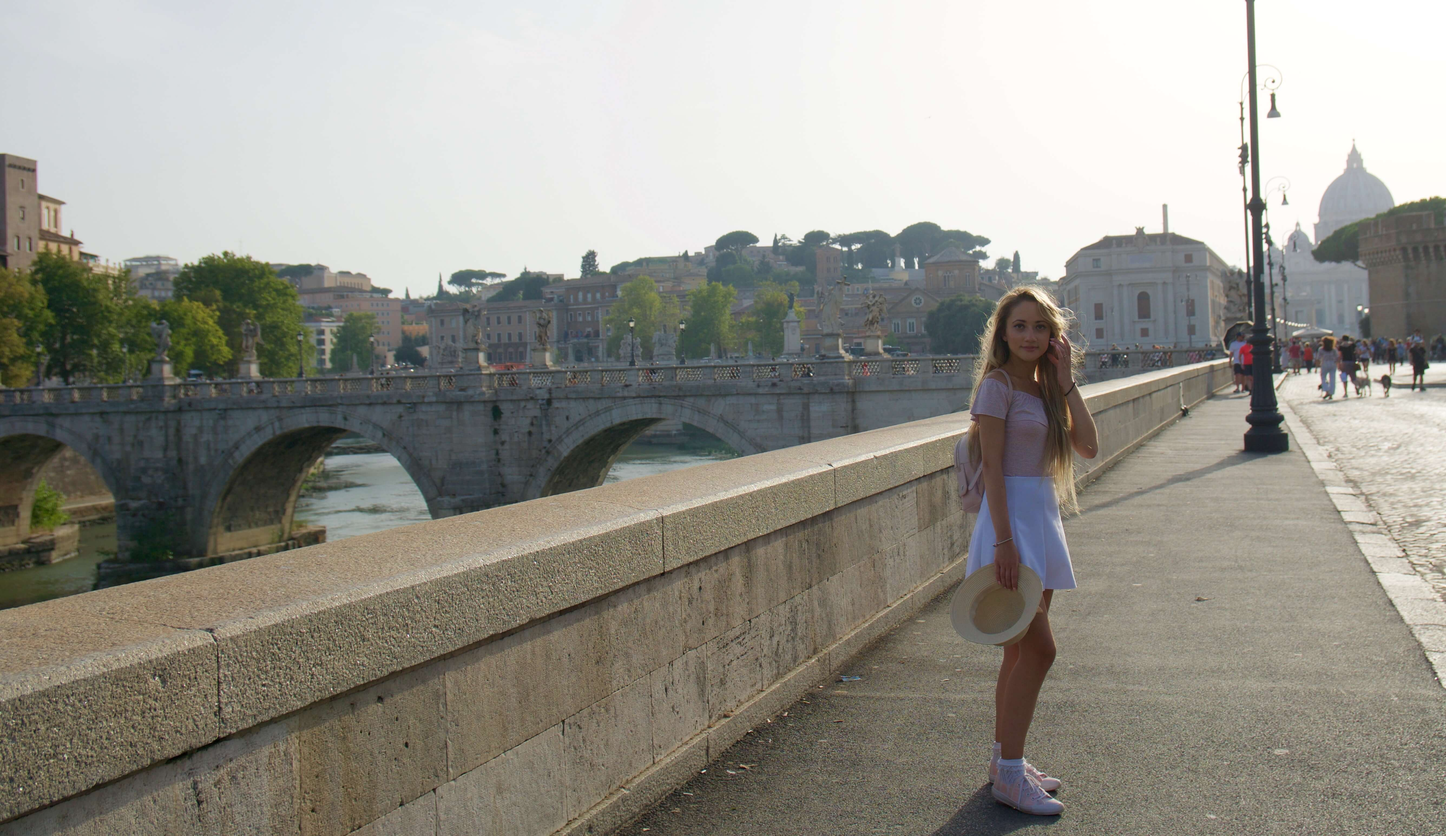
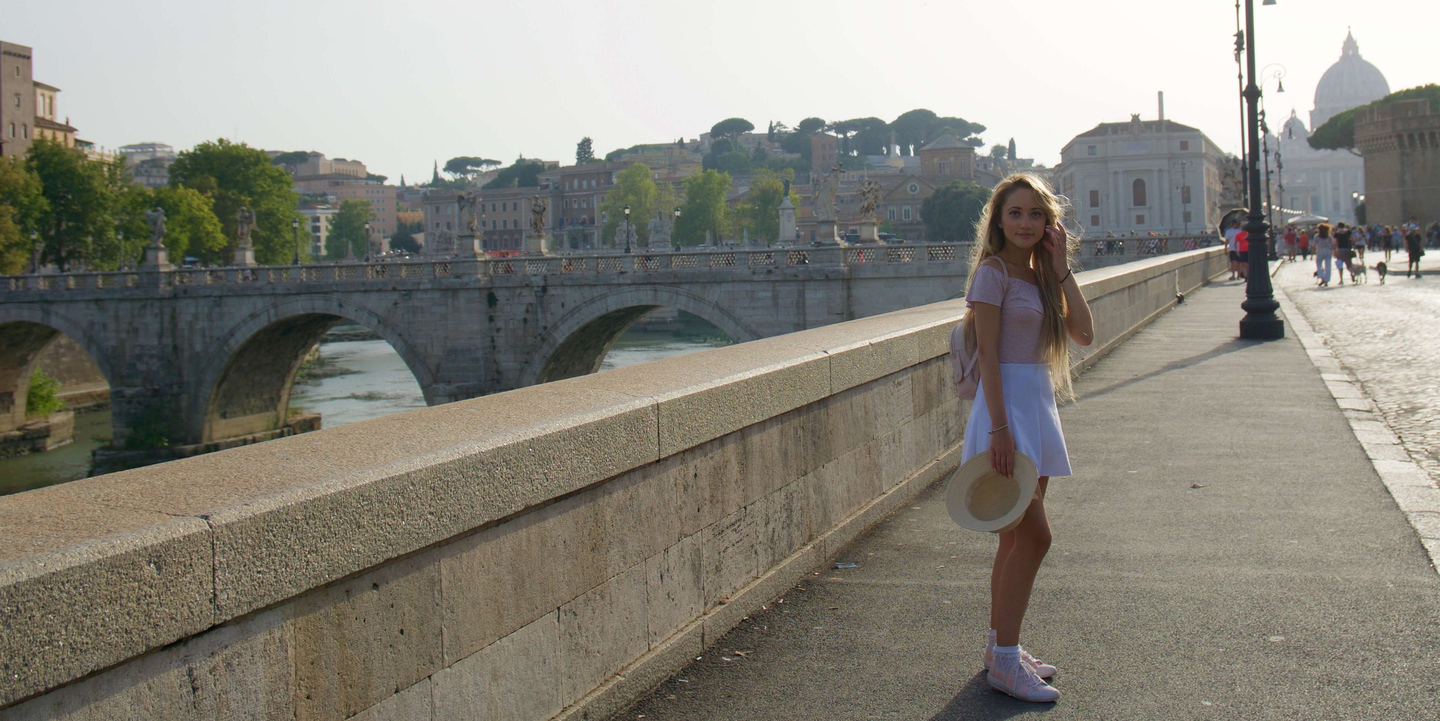
created a rough draft, enlarged jumbotrton image, created progress bars, draft of my skills section and my work section

diff --git a/index.html b/index.html
@@ -40,20 +40,58 @@
 
 <!--Jumbotron, showing a picture of me, my name and other info-->
 <header>
-    <div class="jumbotron jumbotron-fluid" style="background-image: url(../Bootstrap-Portfolio/images/meInItalyCompressed.jpeg); background-size: 100%;">
-      <h1 class="col-lf-11 display-4">Welcome to my Portfolio</h1>
-      <p class="lead">Hello! My name is Alice and this is my first Portfolio made with Bootstrap. I hope you enjoy checking out my projects and getting to know me.</p>
-      <p>This is a picture of me in Italy, I love travelling!</p>
+    <div class="jumbotron jumbotron-fluid" style="background-image: url(../Bootstrap-Portfolio/images/meInItalyCompressed.jpeg); background-size: 100%;"><br>
+      <br><h1 class="col-lf-11 display-4" id="title"><br>Welcome to my Portfolio</h1><br>
+      <p class="lead">&nbsp; Hello! My name is Alice and this is my Portfolio made with Bootstrap. I hope you enjoy checking out my projects and getting to know me.</p><br>
       <p class="lead">
-         <a class="btn btn-outline-dark btn-lg" href="#" role="button">My Projects</a>
+         <a class="btn btn-light btn-lg" href="#" role="button">About Me</a>
       </p>
-      <hr class="my-4">
 </div>
 </header>
-    <!--My Work in a grid, with each project image in a card. The card should include an image and short description-->
 
+     <!--Skills section - list of things you expect to learn-->
+<section class="container">
+    <div class="">
+        <h1 class="">My Skills</h1><br>
+        
+        <p class="">So far I have learned an abundance of information, and I look forward to learning more each day.
+            <ul>I have learned:
+                <li>HTML: Semantic and non semantic HTML. I have also learned form inputs and tables.</li>
+                <li>CSS: I have learned the box model, and its alternative (border-box). I have learned about classes and ids, and I have learned many types of selectors.</li>
+                <li>Flexbox (CSS): I have learned how to manipulate the positioning of elements using Flexbox.</li>
+                <li>CSS Grid: I have learned some of the basics of CSS grid.</li>
+                <li>Bootstrap: I am currently learning the fundementals of Bootstrap, and I enjoy using it!</li>
+                <li>JavaScript: I have looked into the basics of JavaScript, but I do not currently know how to use it. I am looking forward to learning it!</li>
+                <li>React JS: This is a JavaScript framework, I currently do not know how to use it.</li>
+            </ul><br>
+        </p>
+        <div class="progress">
+            <div class="progress-bar progress-bar-striped progress-bar-animated bg-danger" role="progressbar" style="width: 10%" aria-valuenow="10" aria-valuemin="0" aria-valuemax="100">React</div>
+          </div><br>
+          <div class="progress">
+            <div class="progress-bar progress-bar-striped progress-bar-animated" role="progressbar" style="width: 10%" aria-valuenow="10" aria-valuemin="0" aria-valuemax="100">JavaScript</div>
+          </div><br>
+          <div class="progress">
+            <div class="progress-bar progress-bar-striped progress-bar-animated" role="Bootstrap" style="width: 30%" aria-valuenow="30" aria-valuemin="0" aria-valuemax="100">Bootstrap</div>
+          </div><br>
+          <div class="progress">
+            <div class="progress-bar progress-bar-striped progress-bar-animated" role="progressbar" style="width: 50%" aria-valuenow="50" aria-valuemin="0" aria-valuemax="100">CSS</div>
+          </div><br>
+          <div class="progress">
+            <div class="progress-bar progress-bar-striped progress-bar-animated" role="progressbar" style="width: 75%" aria-valuenow="75" aria-valuemin="0" aria-valuemax="100">HTML</div>
+          </div>
+          <br>
+    </div>
+</section>
 
-    <!--Skills section - list of things you expect to learn-->
+<!--My Work in a grid, with each project image in a card. The card should include an image and short description-->
+          <section class="container">
+            <div class="row d-flex justify-content-around mt-8">
+                <h1 class="my-4">My Work</h1>
+                <p>Lorem ipsum, dolor sit amet consectetur adipisicing elit. Necessitatibus cupiditate molestias reprehenderit, ea fugiat accusamus quisquam sed incidunt! Blanditiis odit, ipsum ab facere impedit alias dolor, consequuntur laudantium reiciendis, magnam repellendus. Eligendi commodi odit quas harum eius accusamus minus aliquid?</p><br>
+            </div>
+        </section>
+
 
     <!--About me/ contact section-->
 

diff --git a/css/style.css b/css/style.css
@@ -4,11 +4,26 @@
     flex-basis: auto;
     }
 
-header h1 {
+header #title {
+    width: 65%;
     text-align: center;
+    font-weight: 600;
+    color: white;
 
 }
 
 header p {
-    width: 50%;
+    color: white;
+    font-weight: 700;
+    font-size: 24px;
+    width: 65%;
+    text-align: center;
+}
+
+header .jumbotron {
+    height: 735px;
+}
+
+progress1 {
+    width: 100%;
 }
